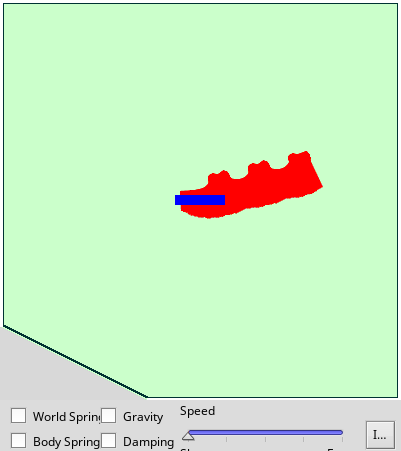
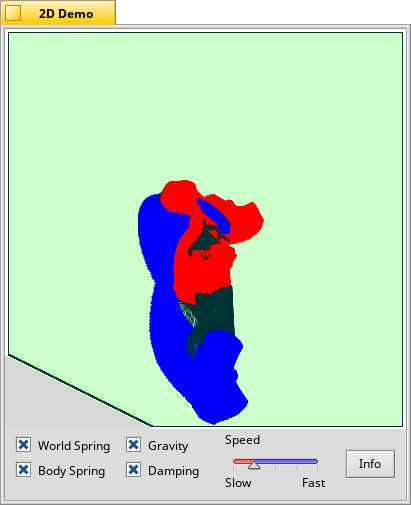
2dPhysicsDemo: make the window taller and spread out the controls
Also, updated the screenshot.

Fixes #2 and #3

Changed region(s): [[0.0, 0.0, 1.0, 1.0]]

diff --git a/Source/my_BitView.cpp b/Source/my_BitView.cpp
@@ -46,7 +46,8 @@ my_BitView::my_BitView(BRect rect, const char* name)
 	mBitsLength=mBitmap->BitsLength();
 	SetViewColor(B_TRANSPARENT_32_BIT);
 	view=mBack;
-	BView* cView=new BView(BRect(0,400,400,450),"control",B_FOLLOW_ALL, B_WILL_DRAW);
+	BView* cView = new BView(BRect(0, 400, 400, mHoehe), "control",
+		B_FOLLOW_ALL, B_WILL_DRAW);
 	cView->SetViewColor(220,220,220);
 	AddChild(cView);
 
@@ -73,25 +74,26 @@ my_BitView::my_BitView(BRect rect, const char* name)
 	mGravity = new BCheckBox(BRect(0,0,10,10),"mGravity","Gravity",msg3);
 	mGravity->GetPreferredSize(&width,&height);
 	mGravity->ResizeTo(width,height);
-	mGravity->MoveBy(100,5);
+	mGravity->MoveBy(120, 5);
 	cView->AddChild(mGravity);
 
 	mDamping = new BCheckBox(BRect(0,0,10,10),"mDamping","Damping",msg4);
 	mDamping->GetPreferredSize(&width,&height);
 	mDamping->ResizeTo(width,height);
-	mDamping->MoveBy(100,30);
+	mDamping->MoveBy(120, 30);
 	cView->AddChild(mDamping);
- 
-    mSlider = new BSlider(BRect(180,2,350,52), "mSlider", "Speed", msg5, 0, 100, B_TRIANGLE_THUMB);
-   	mSlider->SetBarColor(c_blue);
+
+	mSlider = new BSlider(BRect(220, 2, 300, 52), "mSlider", "Speed", msg5, 0,
+		100, B_TRIANGLE_THUMB);
+	mSlider->SetBarColor(c_blue);
     mSlider->SetHashMarks(B_HASH_MARKS_BOTTOM); 
     mSlider->SetHashMarkCount(5);	
 	mSlider->SetLimitLabels("Slow", "Fast");
 	mSlider->UseFillColor(true, &c_red);
 	cView->AddChild(mSlider);
-		
-	mInfoButton = new BButton(BRect(0,0,30,20),"infoButton","Info", msg6);	
-	mInfoButton->MoveBy(365,20);
+
+	mInfoButton = new BButton(BRect(0, 0, 50, 20), "infoButton", "Info", msg6);
+	mInfoButton->MoveBy(340, 20);
 	mInfoButton->SetTarget(be_app);
 	cView->AddChild(mInfoButton);
 		

diff --git a/Source/my_App.cpp b/Source/my_App.cpp
@@ -10,7 +10,7 @@
 const float		OFFSET_X 	=	100;
 const float		OFFSET_Y	=	100;
 const float		BREITE 		=	400;
-const float		HOEHE		=	450;
+const float		HOEHE		=	470;
 
 
 my_App::my_App() : BApplication("application/x-vnd.2dPhysicsDemo")
